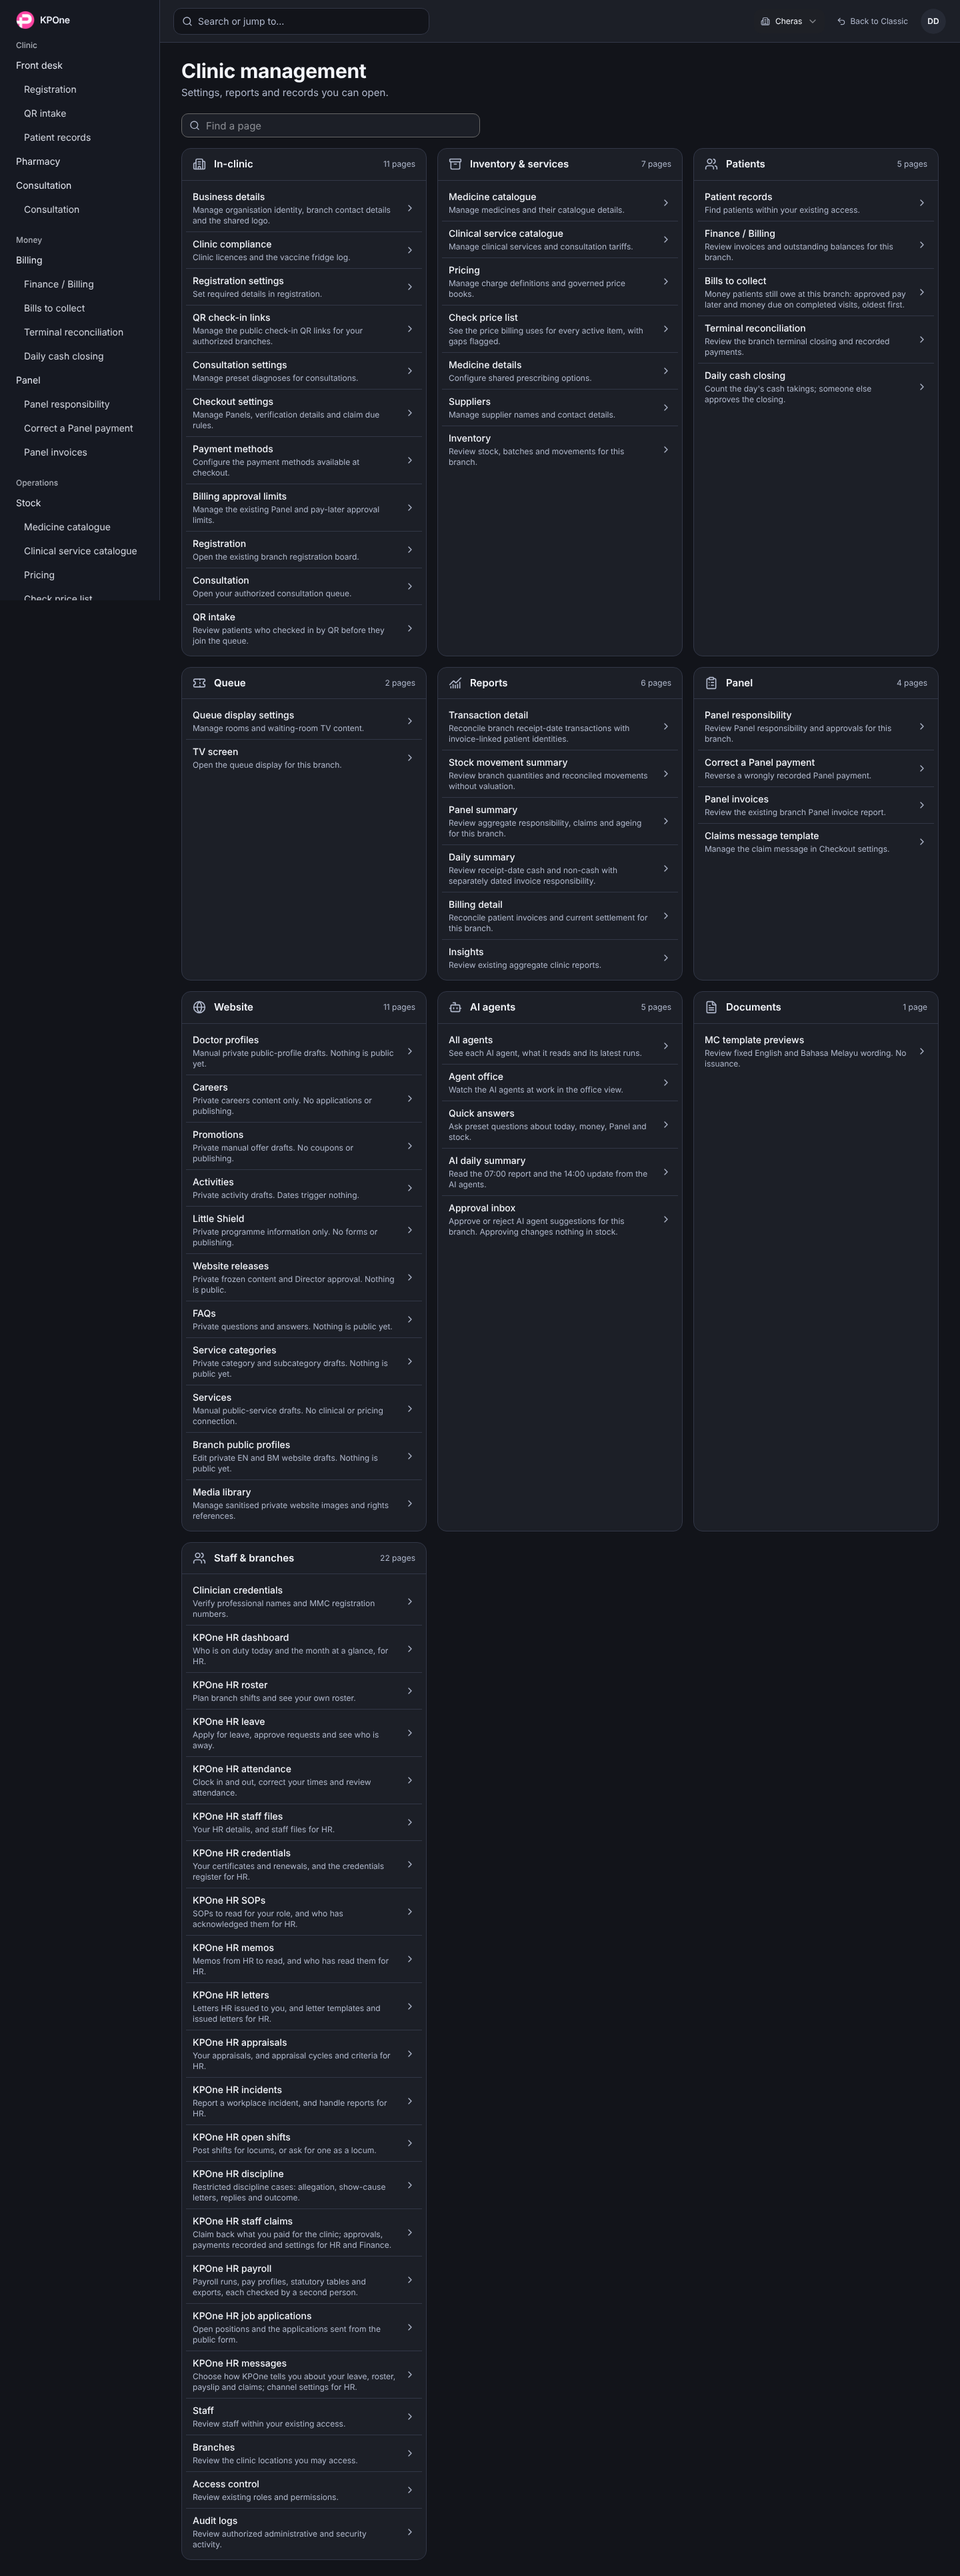
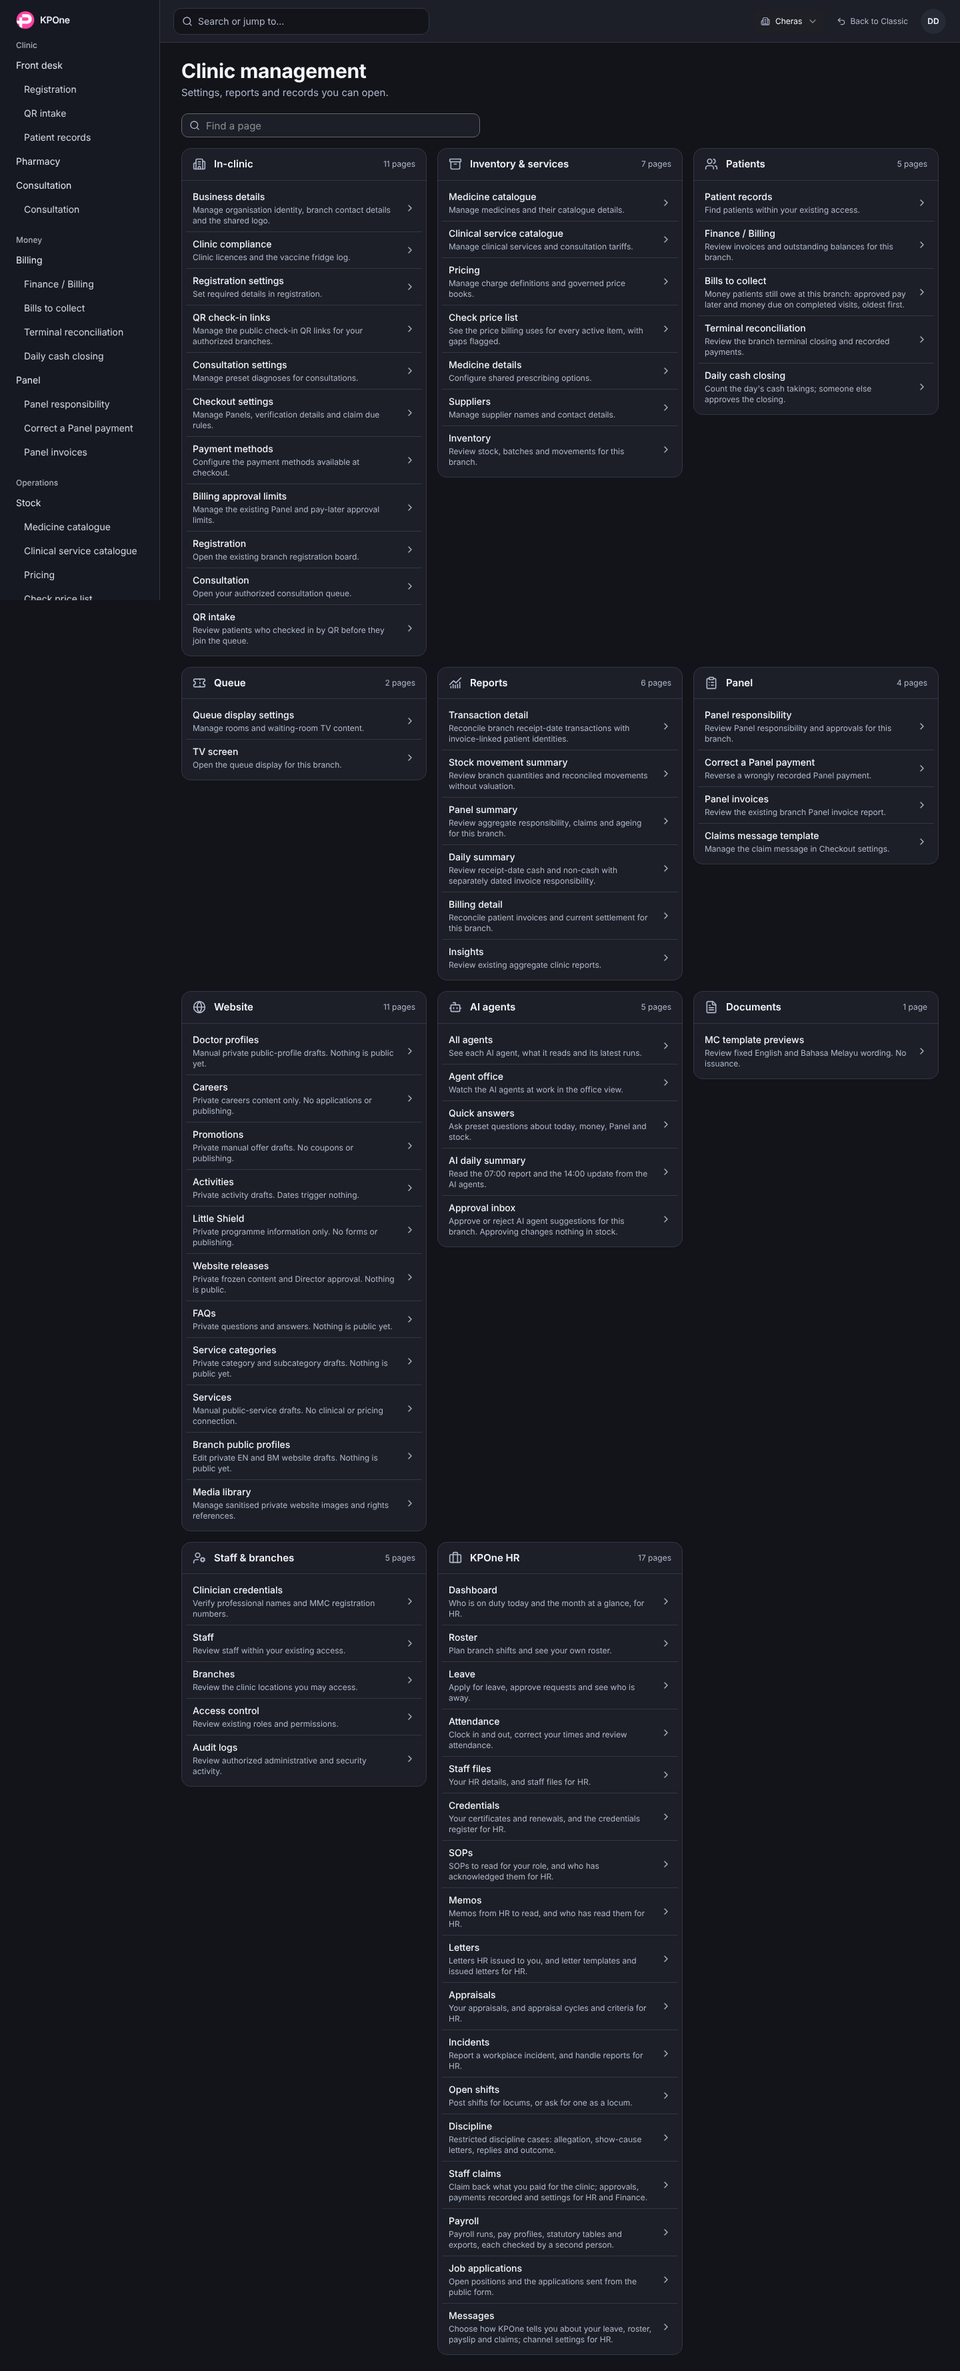
UX-21 evidence: hub after Daniel's changes (never merge)
Claude-Session: https://claude.ai/code/session_01MHFmnWbzkbygrMqyh6PXt8

diff --git a/ux-21/README.md b/ux-21/README.md
@@ -1,14 +1,25 @@
-# UX-21 Version 2 Clinic management hub (never merge)
+# UX-21 Version 2 Clinic management hub, after Daniel's changes (never merge)
 
-Full-page shots, device scale 1, with "Try the new layout" on. Taken as the Director (10 groups) at 390, 768, 1024 and
-1440 px, and as the CA (5 groups) at 390 and 1440 px, in light and dark.
+Full-page shots, device scale 1, with "Try the new layout" on. Taken as the Director at 390, 768, 1024 and 1440 px, and
+as the CA at 390 and 1440 px, in light and dark.
 
-- `*-search.png` shows "price" in "Find a page": 2 pages, Pricing and Check price list.
-- `*-empty.png` shows "zzzz": "No page matches “zzzz”."
+What changed in V2 only. Classic's grouping and its tests are unchanged.
+- **KPOne HR card:** the /hr pages now have their own card, after "Staff & branches", with short names such as
+  "Roster" and "Leave". The full name stays as the row's title and is still matched by search.
+  - Director: Staff & branches has 5 pages and KPOne HR has 17.
+  - CA: Staff & branches has 2 pages and KPOne HR has 12.
+- **Phones (below 640 px):** each card is a closed disclosure, "In-clinic · 11". A tap opens it, and a search opens the
+  matching cards. The Director's phone page is now 914 px tall, down from about 5,900 px.
+  - `-open.png`: the first card opened.
+  - `-search.png`: "leave" gives "2 pages found", with the matching card open.
+  - `-empty.png`: "zzzz" gives "No page matches “zzzz”." on screen, and "No pages found" is announced.
+- **Cards size to their own content.**
 
-Measured: no sideways scroll at any width. The h1 and the search box start at the content edge (16 px on phones, 272 px
-beside the sidebar). The grid is 1 column on phones, 2 from 768 px and 3 from 1280 px. Rows are at least 44 px tall.
+Checks:
+- No sideways scroll at any width.
+- Each phone toggle's aria-controls points to its list.
 
-Classic compare (56 shots): no real difference. Two shots differed by known flicker: a text cursor on Registration and
-a card edge on Workspace. A re-shoot of Registration matched the base 8 of 8, and the Workspace flicker shows when main
-is compared with main.
+Classic compare against a fresh main (56 shots): 54 are identical.
+- Workspace: flicker, which matched on a re-shoot.
+- Registration, 1440 px light: 61 pixels, one or two colour steps on the rounded corners of the tab count pills
+  (anti-aliasing; this change does not touch Registration).
